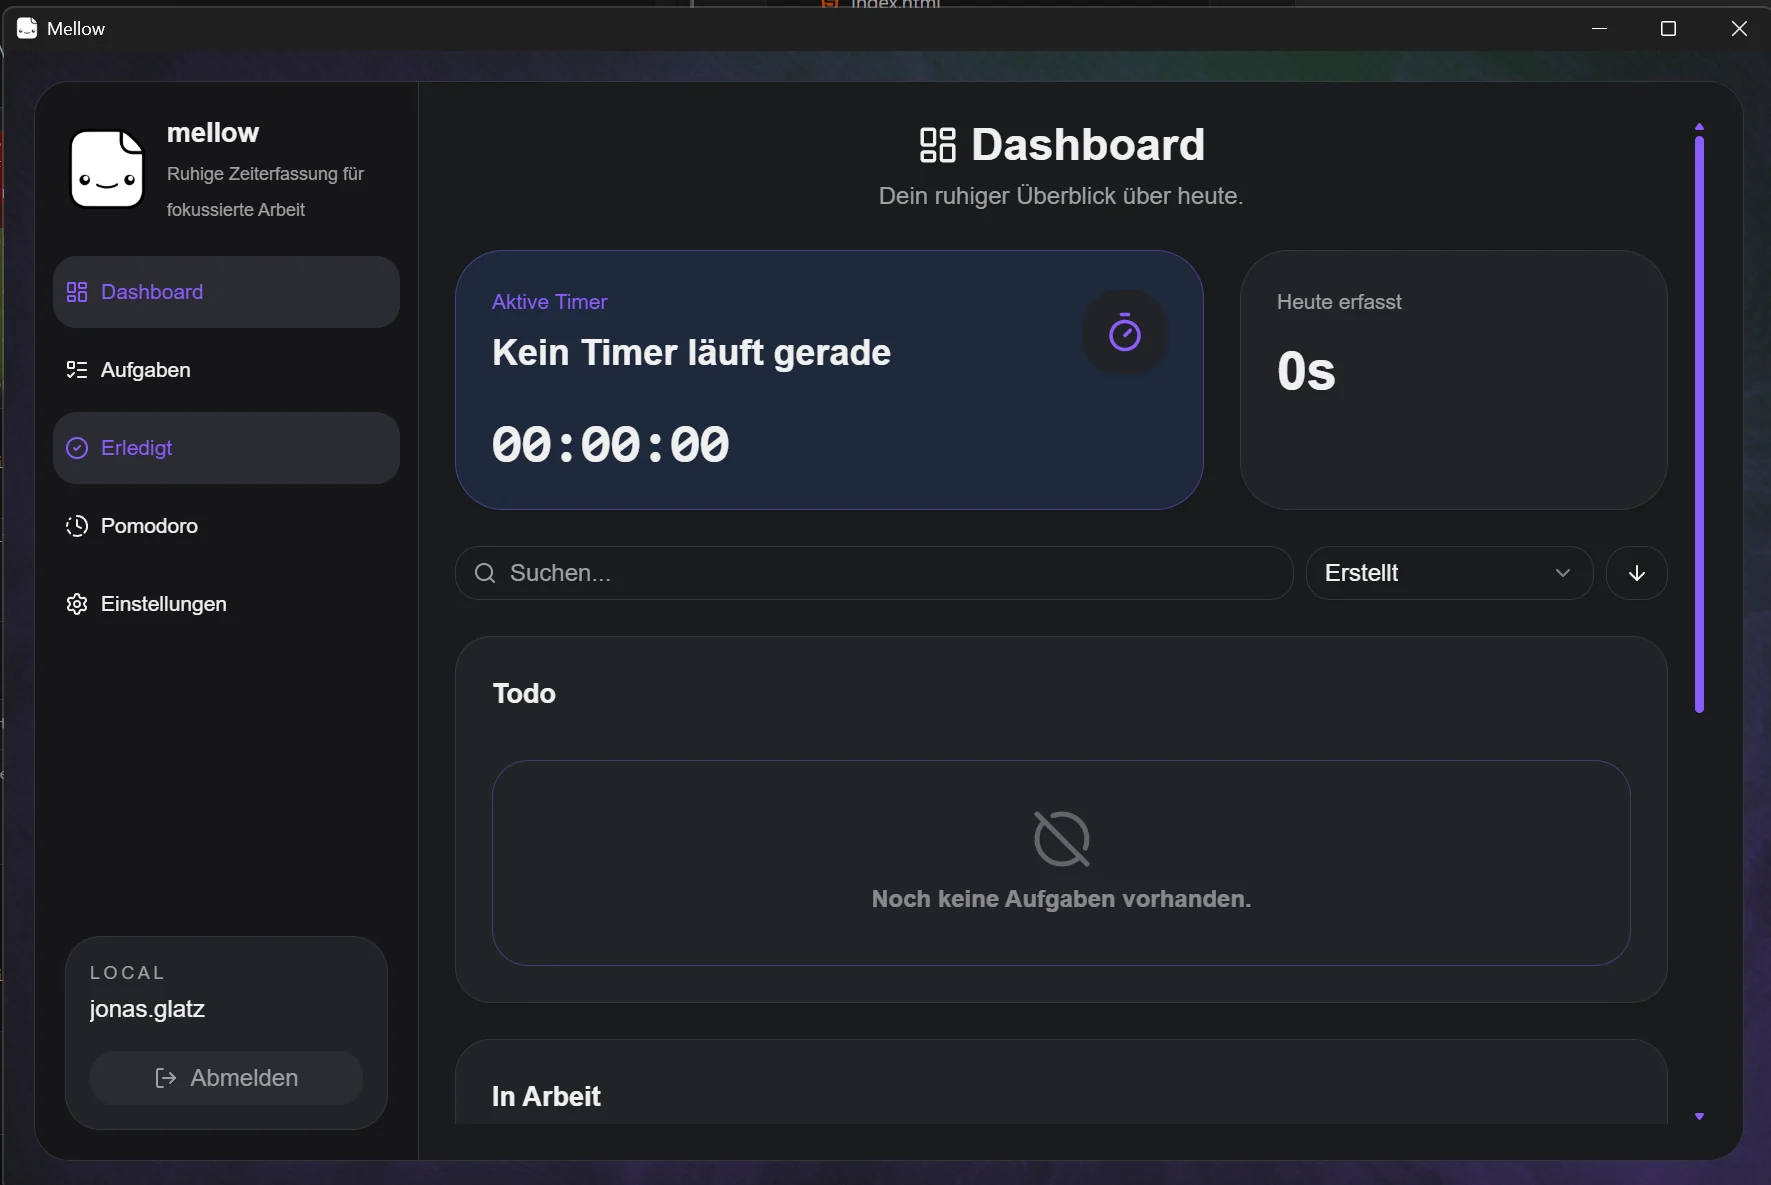
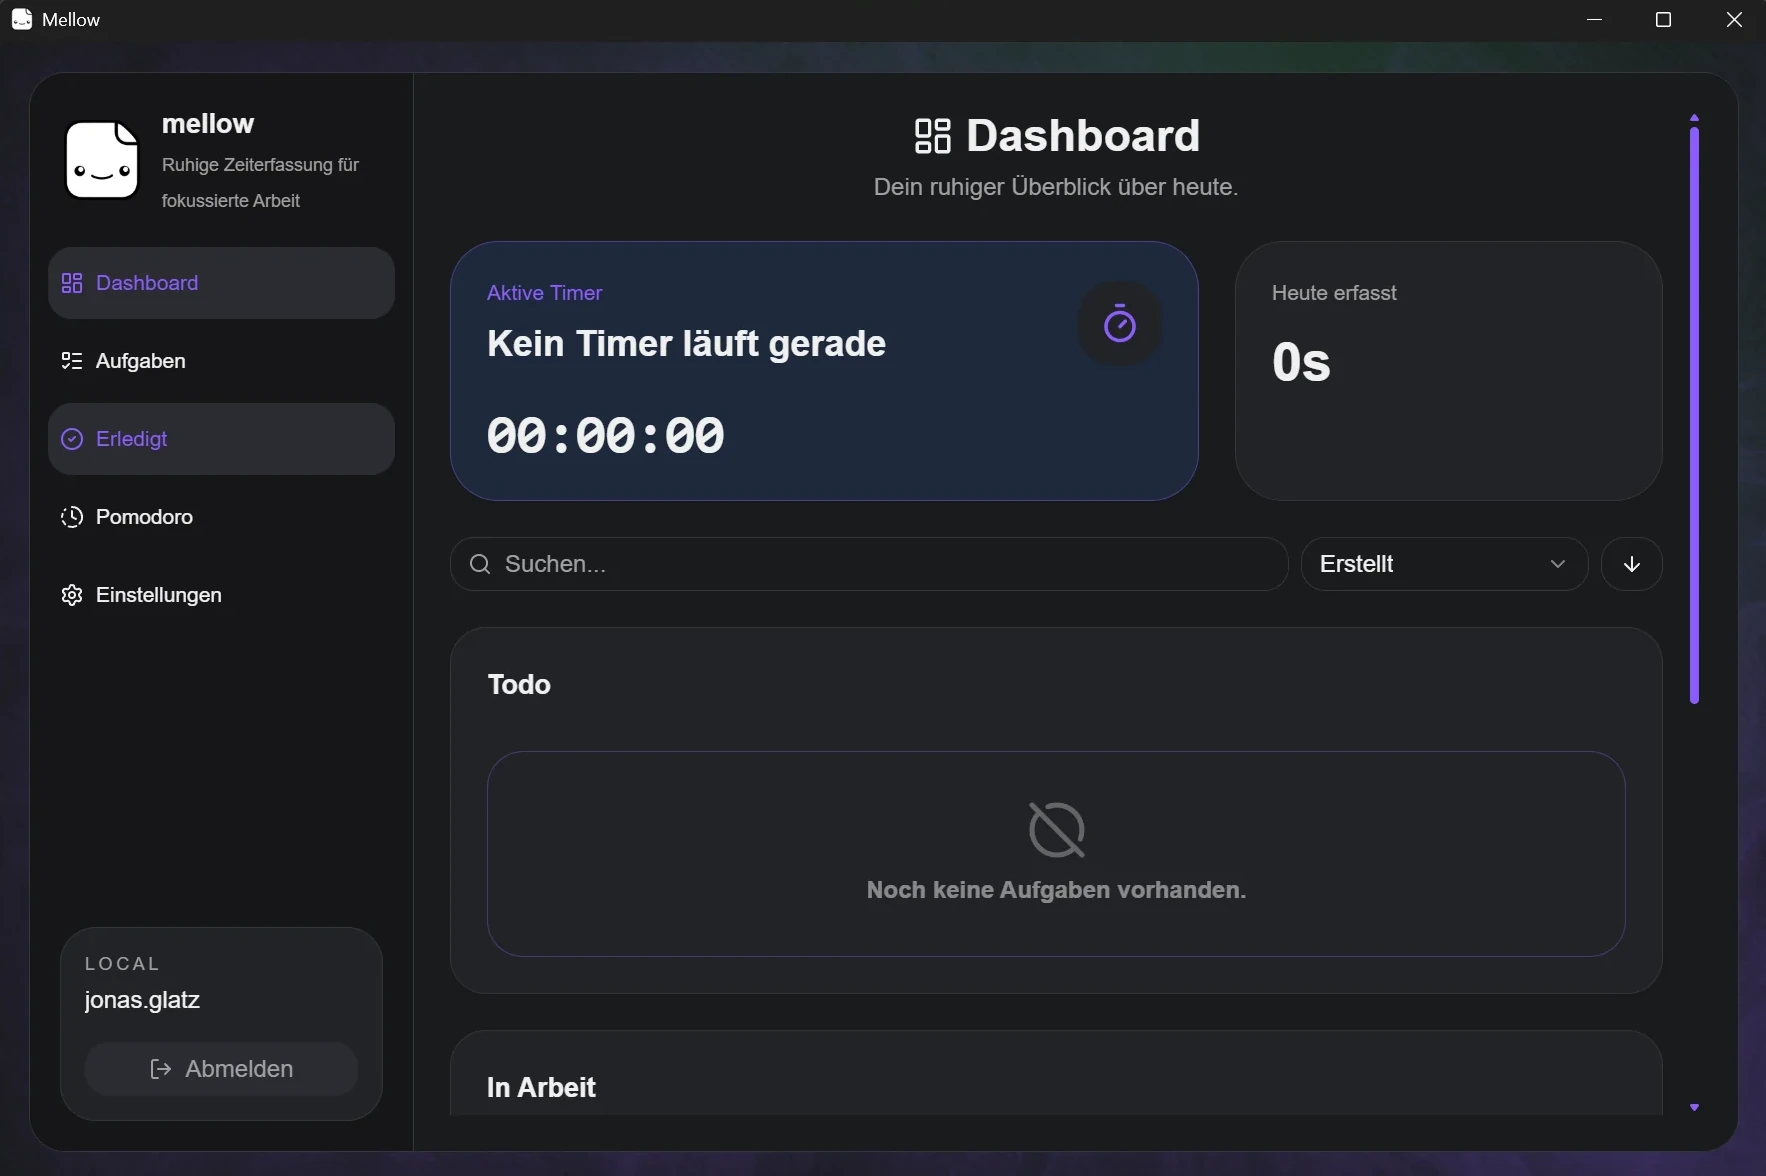
fix(projects): cap the lead screen and trim Mellow's desktop edges

diff --git a/src/views/ProjectDetailView.vue b/src/views/ProjectDetailView.vue
@@ -96,7 +96,7 @@ onBeforeUnmount(() => {
       <template v-if="project">
         <header class="mt-10 grid items-end gap-x-10 gap-y-8 lg:grid-cols-12">
           <h1
-            class="text-[clamp(3.25rem,10vw,10rem)] leading-[0.86] font-black tracking-[-0.06em] break-words uppercase lg:col-span-8"
+            class="text-[clamp(2.75rem,6vw,6.5rem)] leading-[0.88] font-black tracking-[-0.055em] break-words uppercase lg:col-span-8"
           >
             {{ shortProjectName(project.name) }}
           </h1>
@@ -163,7 +163,10 @@ onBeforeUnmount(() => {
           </div>
         </div>
 
-        <div class="mt-12">
+        <!-- The lead screen is capped so the whole 16:10 frame fits in about
+             70 % of the screen height: full width it stood 1200 px tall on a
+             wide monitor, and a small screenshot floated lost inside it. -->
+        <div class="mx-auto mt-12 w-full max-w-[min(72rem,112svh)]">
           <ProjectMedia :project is-eager />
         </div>
 
